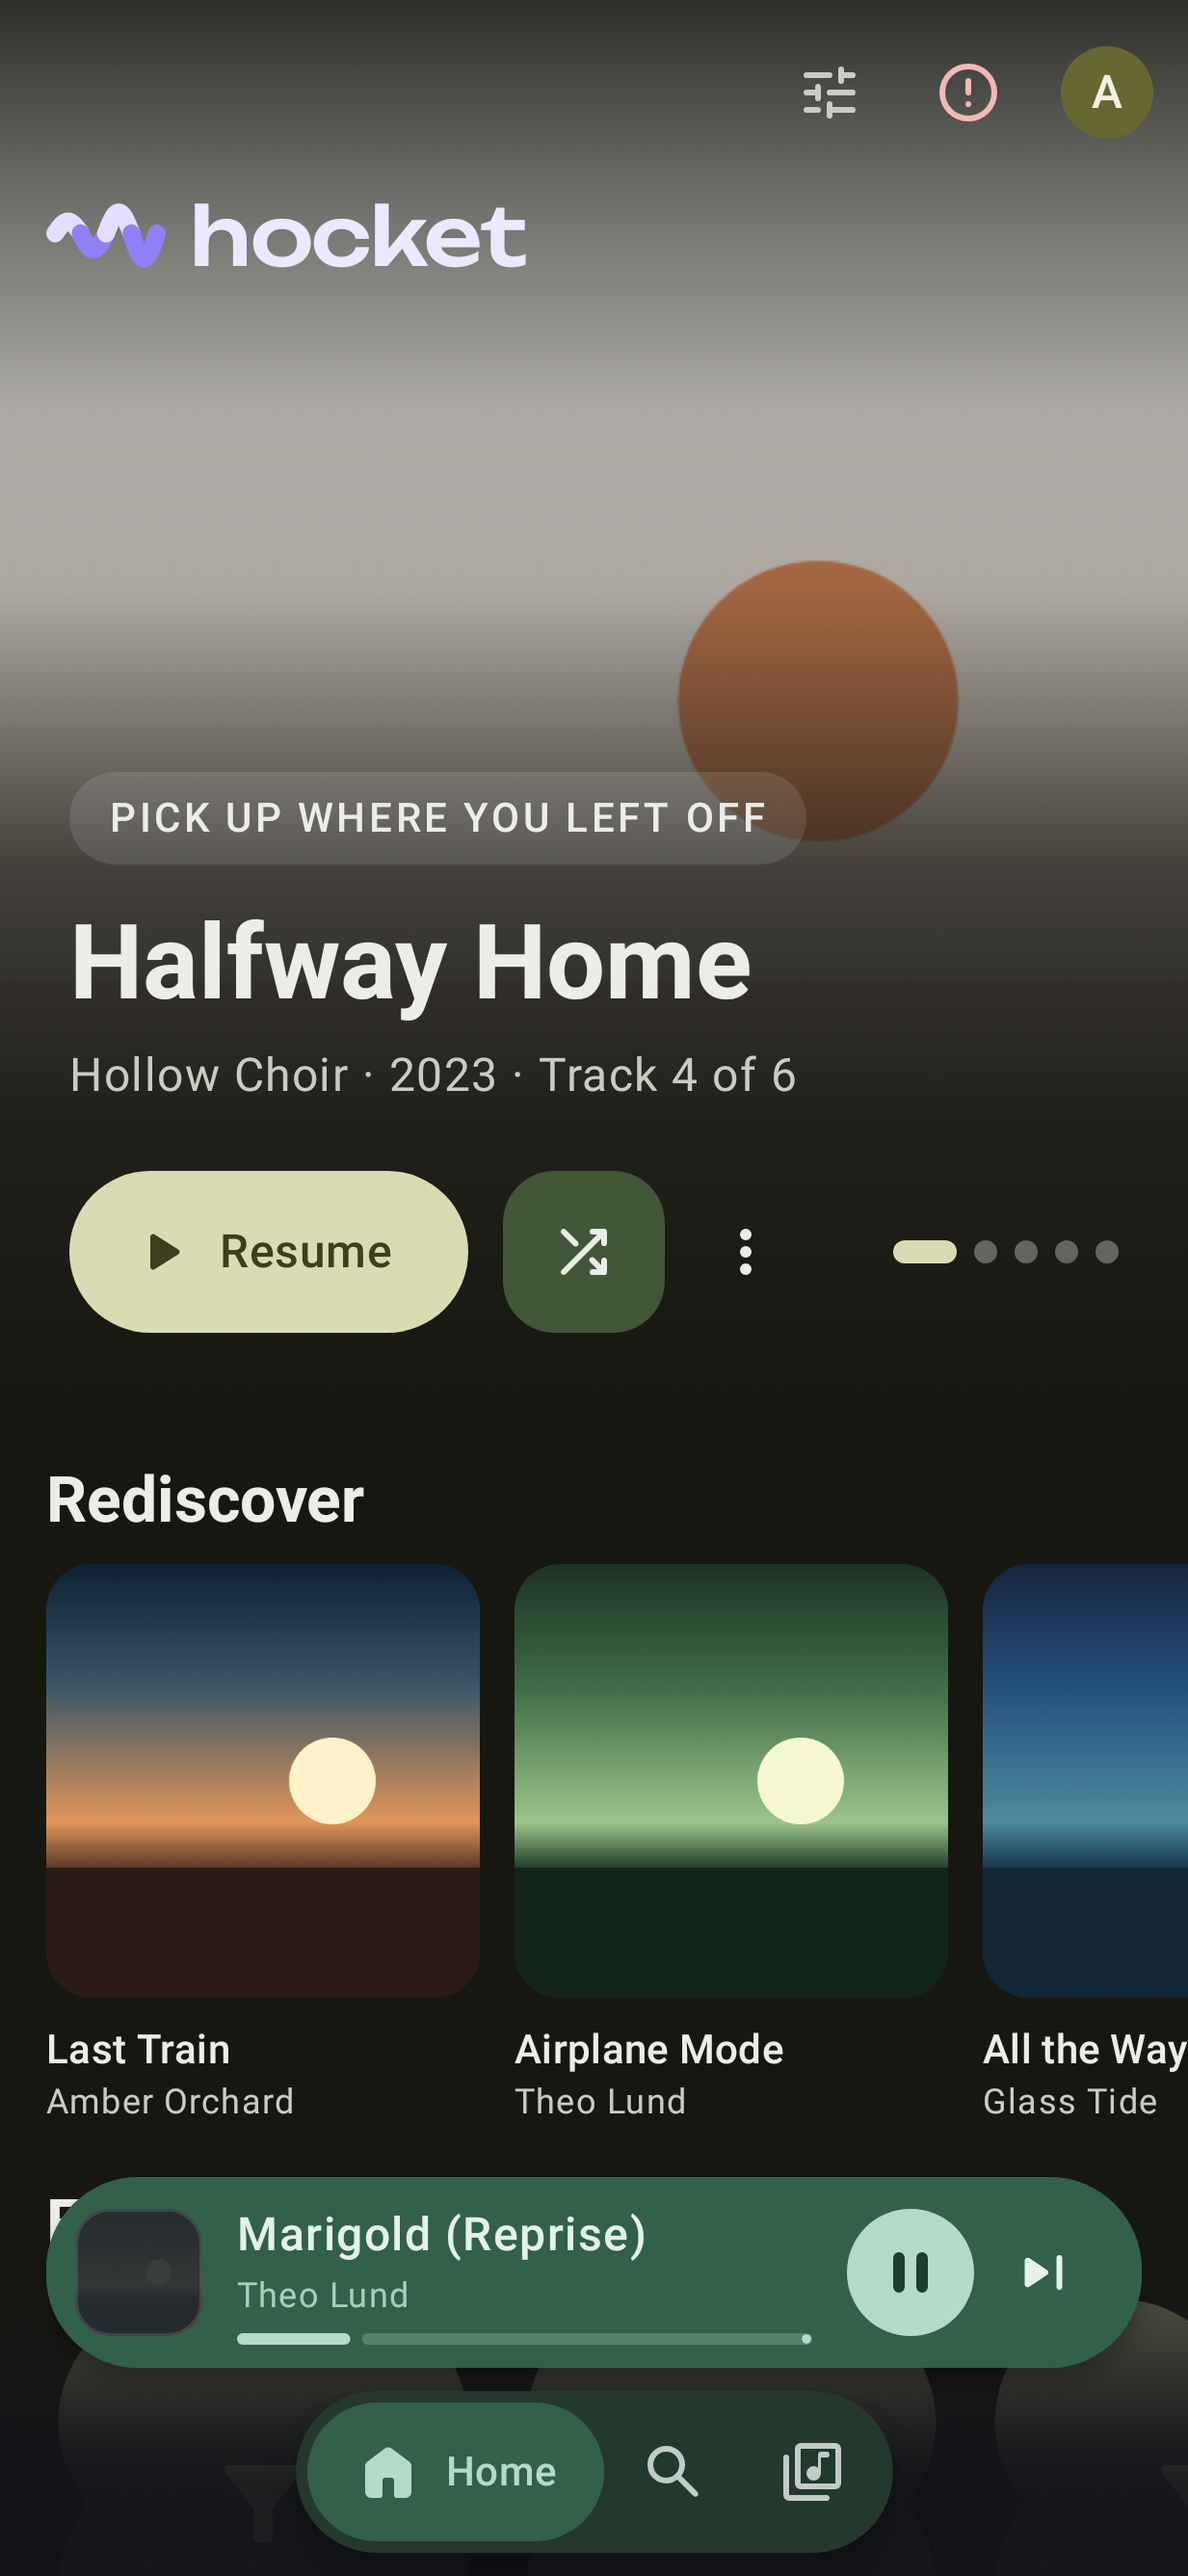
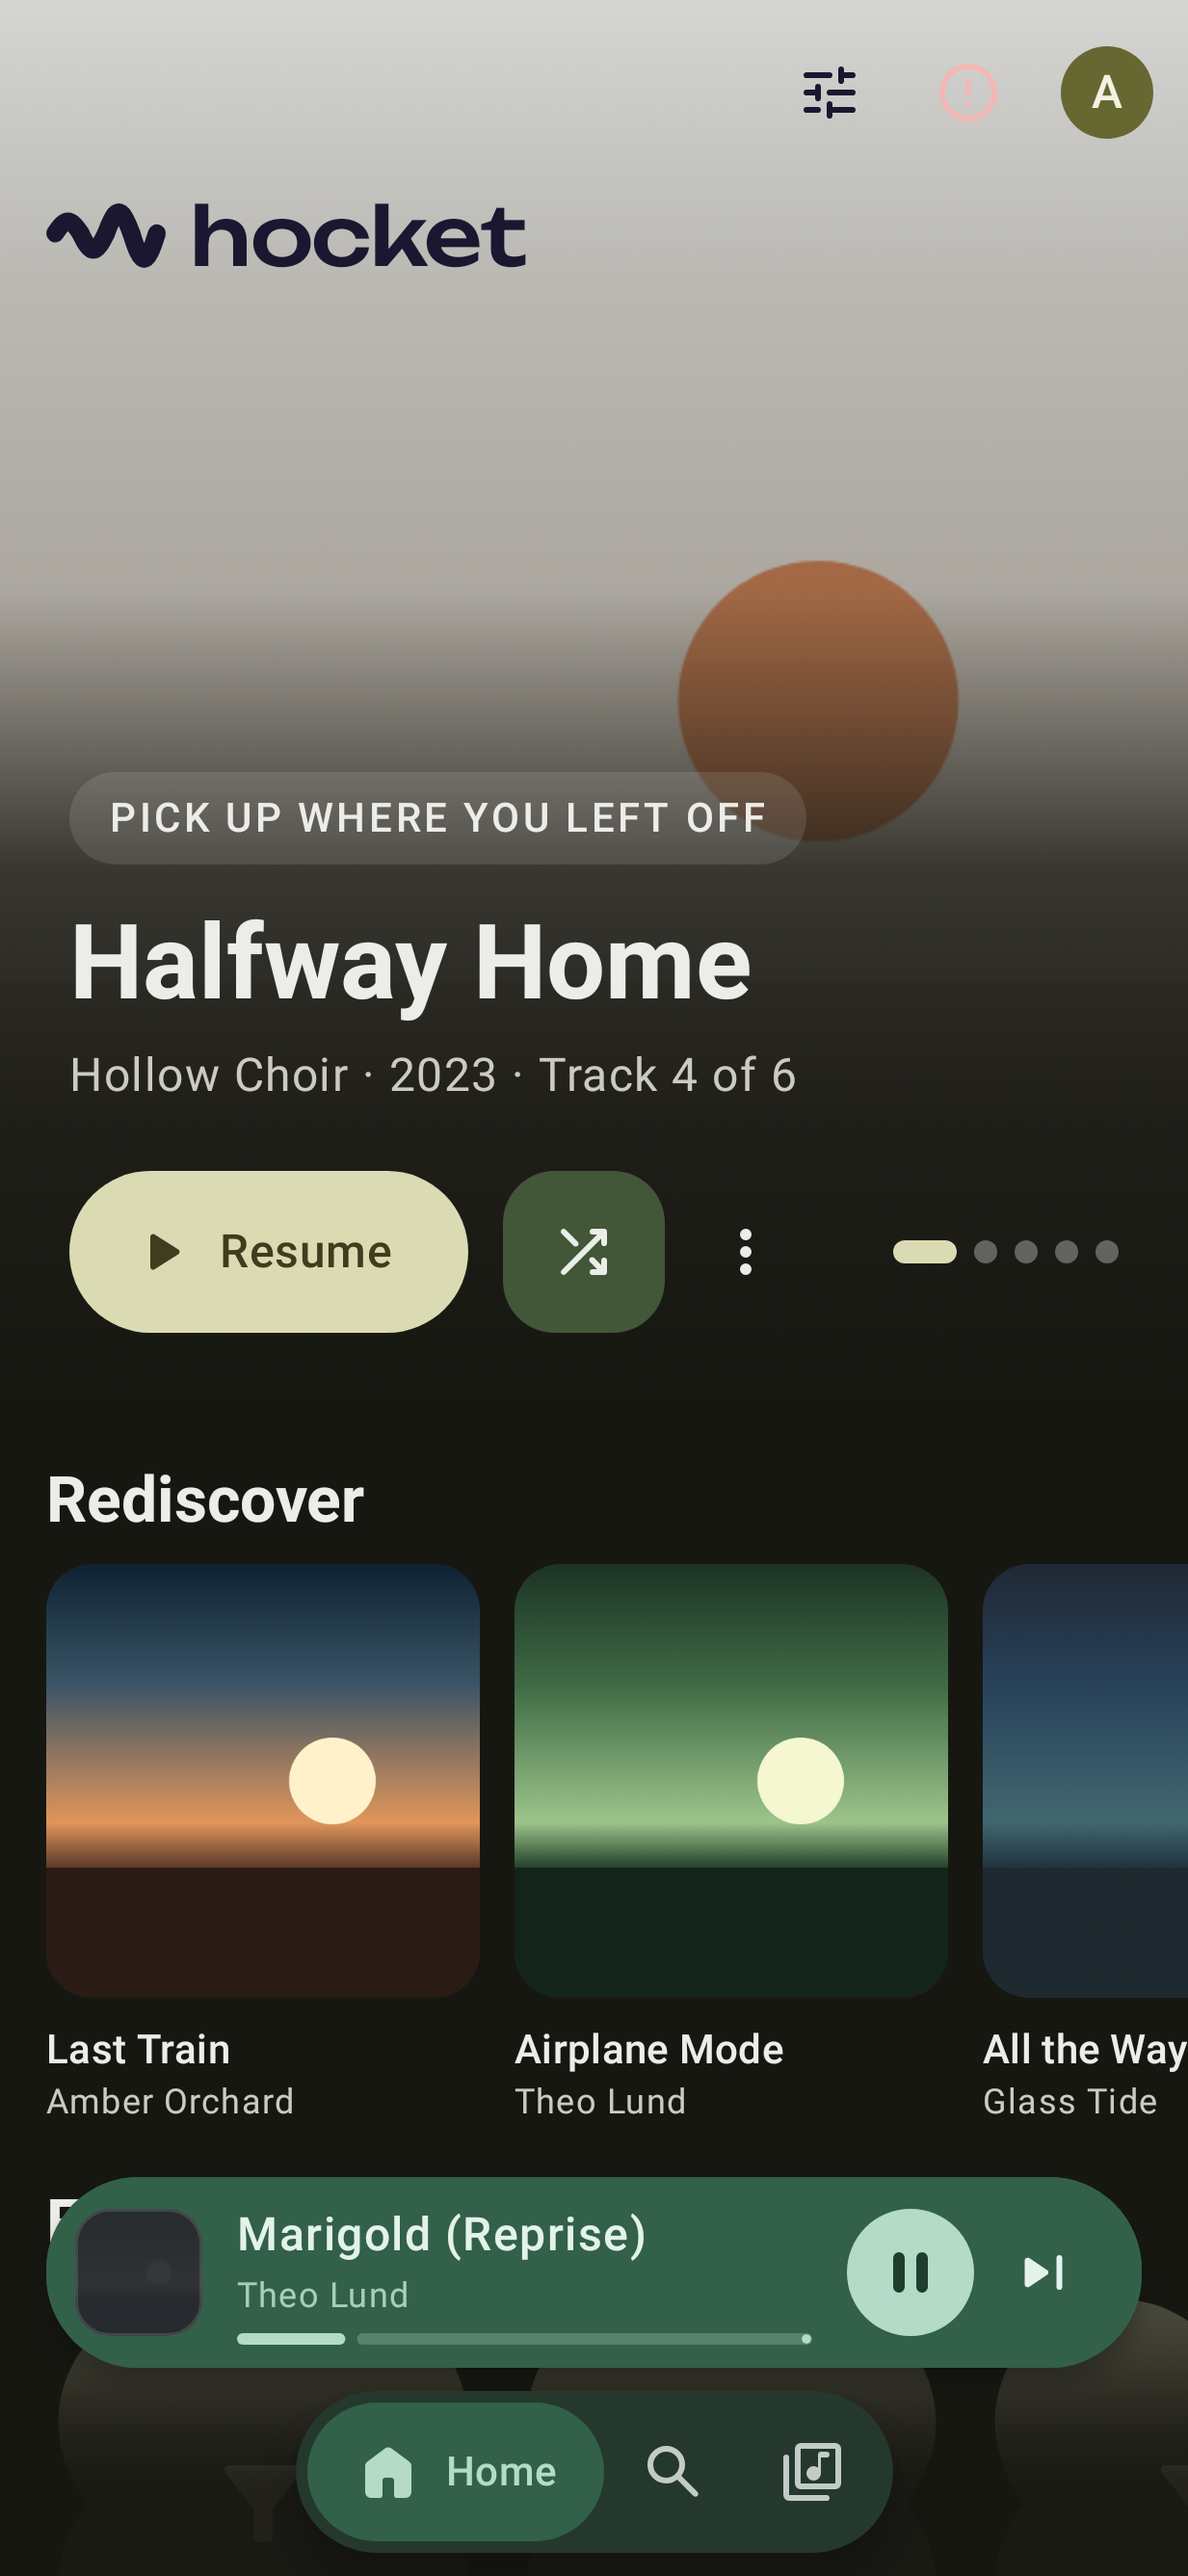
Android Spotlight: the cover shows whole under the top bar
No more fade at the top of a slide: the bar's lockup, its icons and the
status bar take the ink that reads on the top of the cover in view (dark
on a pale one, the two-voiced light mark on a dark one), over a faint
shade of the opposite colour. Until a cover has been read they keep the
theme's own ink. Home also hands its colours to the page chrome, so the
bottom bar follows the slide too.

Changed region(s): [[0.0, 0.0, 1.0, 0.1553], [0.8013, 0.621, 1.0, 0.7452]]

diff --git a/android/app/src/main/java/app/hocket/ui/screens/home/SpotlightCarousel.kt b/android/app/src/main/java/app/hocket/ui/screens/home/SpotlightCarousel.kt
@@ -32,7 +32,9 @@ import androidx.compose.runtime.getValue
 import androidx.compose.ui.Alignment
 import androidx.compose.ui.Modifier
 import androidx.compose.ui.graphics.Brush
+import androidx.compose.ui.graphics.Color
 import androidx.compose.ui.graphics.RectangleShape
+import androidx.compose.ui.graphics.luminance
 import androidx.compose.ui.platform.testTag
 import androidx.compose.ui.res.pluralStringResource
 import androidx.compose.ui.res.stringResource
@@ -103,12 +105,16 @@ private fun SpotlightPage(slide: SpotlightSlide, page: Int, count: Int, onOpen: 
         Artwork(slide.coverArt, ArtworkSizes.HERO, null, Modifier.fillMaxSize(), RectangleShape)
         // A wash at the top for the bar's lockup and buttons, and the page's own surface rising
         // under the text so it reads on any cover.
-        // A pale cover stays a pale picture, but never lights the slide: the wash is the theme's surface.
-        // In the dark theme the middle keeps more of the wash, so a white cover reads as a dimmed picture, not a bright band.
-        val mid = if (LocalDarkTheme.current) 0.32f else 0.12f
+        // The cover shows whole up top, under the bar; the bar's lockup and icons take the ink that
+        // reads on it (artworkTopLight), over a faint shade of the opposite colour. Lower down the
+        // theme's own surface rises under the text, so a pale cover never lights the slide.
+        val topLight = artworkTopLight(slide.coverArt).value ?: !LocalDarkTheme.current
         Box(Modifier.fillMaxSize().background(Brush.verticalGradient(
-            0f to cs.surface.copy(alpha = 0.9f), 0.14f to cs.surface.copy(alpha = 0.62f), 0.3f to cs.surface.copy(alpha = mid),
-            0.42f to cs.surface.copy(alpha = mid), 0.62f to cs.surface.copy(alpha = 0.8f), 0.8f to cs.surface.copy(alpha = 0.95f), 1f to cs.surface,
+            0f to (if (topLight) Color.White else Color.Black).copy(alpha = 0.22f), 0.2f to Color.Transparent,
+        )))
+        Box(Modifier.fillMaxSize().background(Brush.verticalGradient(
+            0f to Color.Transparent, 0.42f to cs.surface.copy(alpha = if (LocalDarkTheme.current) 0.12f else 0f),
+            0.62f to cs.surface.copy(alpha = 0.8f), 0.8f to cs.surface.copy(alpha = 0.95f), 1f to cs.surface,
         )))
         Column(Modifier.align(Alignment.BottomStart).fillMaxWidth().padding(start = 24.dp, end = 24.dp, bottom = 24.dp)) {
             // The words open the album, artist or playlist (not the whole slide: its top is under the bar's buttons).
@@ -168,4 +174,47 @@ private fun subtitleOf(slide: SpotlightSlide): String {
         else -> null
     }
     return listOfNotNull(artist, a.year?.takeIf { it > 0u }?.toString(), third).joinToString(" · ")
+}
+
+/**
+ * Whether the top of [coverArt], the part a slide shows under the top bar (its top ~30%, middle
+ * 85%: a square cover cropped to the slide), is light: dark ink reads on it. Null while worked out.
+ */
+@Composable
+fun artworkTopLight(coverArt: String?): androidx.compose.runtime.State<Boolean?> {
+    val client = app.hocket.ui.LocalCoreClient.current
+    val state = androidx.compose.runtime.remember(coverArt) { androidx.compose.runtime.mutableStateOf(coverArt?.let { topLights.get(it) }) }
+    androidx.compose.runtime.LaunchedEffect(state) {
+        if (state.value != null || coverArt == null) return@LaunchedEffect
+        val path = client.artworkPath(coverArt, ArtworkSizes.LIST) ?: return@LaunchedEffect
+        val light = kotlinx.coroutines.withContext(kotlinx.coroutines.Dispatchers.IO) { topLuminance(path) }?.let { it > 0.45f } ?: return@LaunchedEffect
+        topLights.put(coverArt, light)
+        state.value = light
+    }
+    return state
+}
+
+private val topLights = android.util.LruCache<String, Boolean>(64)
+
+/** The mean relative luminance of a cover's top strip, or null when it can't be read. */
+private fun topLuminance(path: String): Float? {
+    val bmp = android.graphics.BitmapFactory.decodeFile(path.removePrefix("file://")) ?: return null
+    try {
+        val w = bmp.width
+        val h = bmp.height
+        if (w == 0 || h == 0) return null
+        val x0 = (w * 0.075f).toInt()
+        val x1 = (w * 0.925f).toInt().coerceAtLeast(x0 + 1)
+        val y1 = (h * 0.3f).toInt().coerceAtLeast(1)
+        var sum = 0.0
+        var n = 0
+        val step = maxOf(1, w / 48)
+        for (y in 0 until y1 step step) for (x in x0 until x1 step step) {
+            sum += Color(bmp.getPixel(x, y)).luminance()
+            n++
+        }
+        return if (n == 0) null else (sum / n).toFloat()
+    } finally {
+        bmp.recycle()
+    }
 }

diff --git a/android/app/src/main/java/app/hocket/ui/screens/home/HomeScreen.kt b/android/app/src/main/java/app/hocket/ui/screens/home/HomeScreen.kt
@@ -53,6 +53,8 @@ import app.hocket.ui.player.artworkSeed
 import app.hocket.ui.theme.ArtworkColors
 import app.hocket.ui.theme.LocalDarkTheme
 import app.hocket.ui.theme.animatedScheme
+import app.hocket.ui.brand.Brand
+import app.hocket.ui.nav.PageColors
 import androidx.compose.runtime.LaunchedEffect
 import androidx.compose.runtime.mutableStateOf
 import androidx.compose.runtime.remember
@@ -192,6 +194,13 @@ fun HomeScreen(nav: NavHostController) {
     val scope = rememberCoroutineScope()
     val songMenu = rememberSongMenu()
     val scroll = TopAppBarDefaults.enterAlwaysScrollBehavior()
+    // Over the cover (Spotlight first, the page not scrolled under the bar) the bar's lockup, icons
+    // and the status bar take the ink that reads on the top of the slide in view.
+    val overArt = heroFirst && scroll.state.overlappedFraction < 0.01f
+    // Until the cover's been read, the slide shows the page's own surface: the theme's ink.
+    val topLight = slides.getOrNull(pager.currentPage)?.coverArt?.let { c -> key(c) { artworkTopLight(c).value } } ?: !dark
+    val barInk = if (topLight) Brand.inkOnLight else Brand.inkOnDark
+    PageColors(pageScheme, statusLight = if (overArt) topLight else !dark)
     val hiddenLabel = stringResource(R.string.home_section_hidden, "%s")
     val undoLabel = stringResource(R.string.action_undo)
     fun hide(pref: SectionPref, title: String) {
@@ -210,8 +219,12 @@ fun HomeScreen(nav: NavHostController) {
         // The app's lockup as the title, at the Library header's size; the server is in the account sheet (#29).
         // Clear over Spotlight's artwork until the page scrolls under it.
         topBar = {
-            val barColors = if (heroFirst) TopAppBarDefaults.topAppBarColors(containerColor = Color.Transparent, scrolledContainerColor = MaterialTheme.colorScheme.surfaceContainer) else TopAppBarDefaults.topAppBarColors()
-            MediumFlexibleTopAppBar(title = { HeaderLockup() }, colors = barColors, actions = {
+            val barColors = when {
+                overArt -> TopAppBarDefaults.topAppBarColors(containerColor = Color.Transparent, scrolledContainerColor = MaterialTheme.colorScheme.surfaceContainer, actionIconContentColor = barInk, navigationIconContentColor = barInk, titleContentColor = barInk)
+                heroFirst -> TopAppBarDefaults.topAppBarColors(containerColor = Color.Transparent, scrolledContainerColor = MaterialTheme.colorScheme.surfaceContainer)
+                else -> TopAppBarDefaults.topAppBarColors()
+            }
+            MediumFlexibleTopAppBar(title = { if (overArt) HeaderLockup(ink = barInk) else HeaderLockup() }, colors = barColors, actions = {
                 IconButton(onClick = { customising = true }, modifier = Modifier.testTag("home.customise")) { Icon(HocketIcons.Filled.Tune, stringResource(R.string.home_customise)) }
                 JobsIndicator(onClick = { jobs = true })
                 AccountButton()

diff --git a/android/app/src/main/java/app/hocket/ui/brand/Wordmark.kt b/android/app/src/main/java/app/hocket/ui/brand/Wordmark.kt
@@ -142,11 +142,10 @@ fun brandTitleStyle(): TextStyle = LocalTextStyle.current.merge(
  * where the pale voice would vanish, it's one colour, the word mark's ink. It reads as one heading.
  */
 @Composable
-fun HeaderLockup(modifier: Modifier = Modifier) {
+fun HeaderLockup(modifier: Modifier = Modifier, ink: Color = brandInk()) {
     val style = brandTitleStyle()
     val name = stringResource(R.string.app_name)
     val type = with(LocalDensity.current) { style.fontSize.toDp() }
-    val ink = brandInk()
     val dark = ink == Brand.inkOnDark
     Row(modifier.semantics(mergeDescendants = true) { contentDescription = name; heading() }, verticalAlignment = Alignment.CenterVertically) {
         VoicedMark(height = type * 0.8f, voices = if (dark) listOf(Brand.voice1, Brand.voice2) else listOf(ink, ink))
